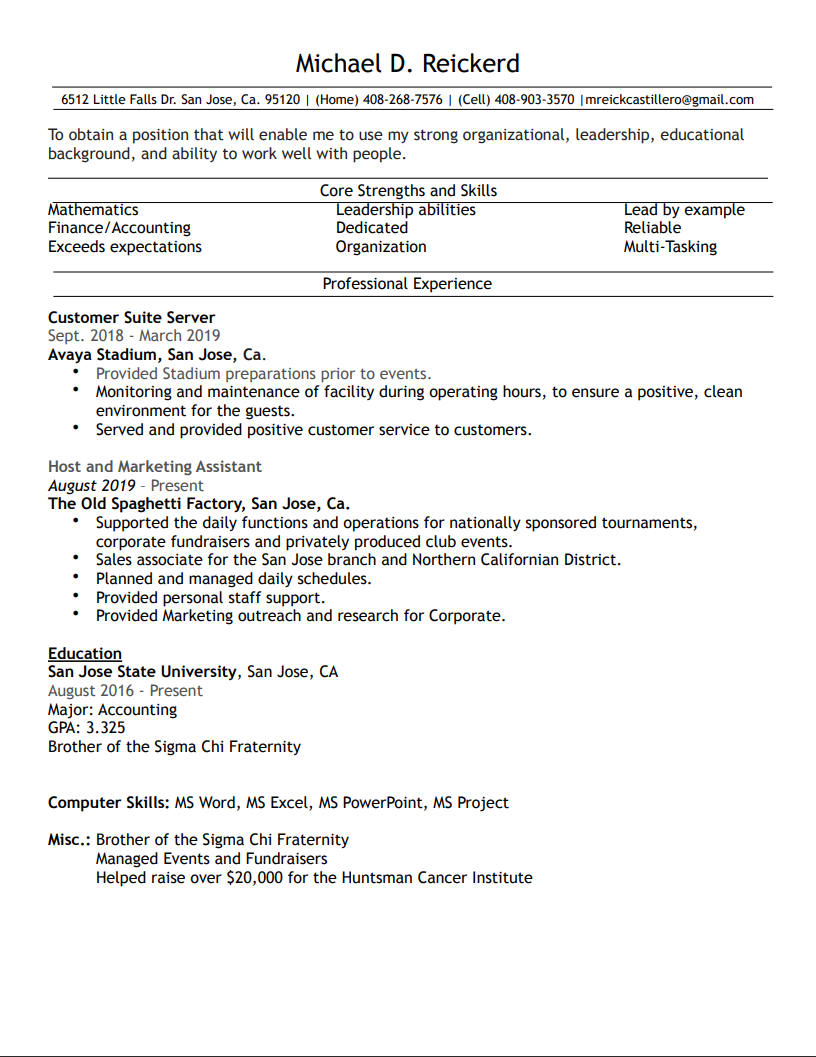
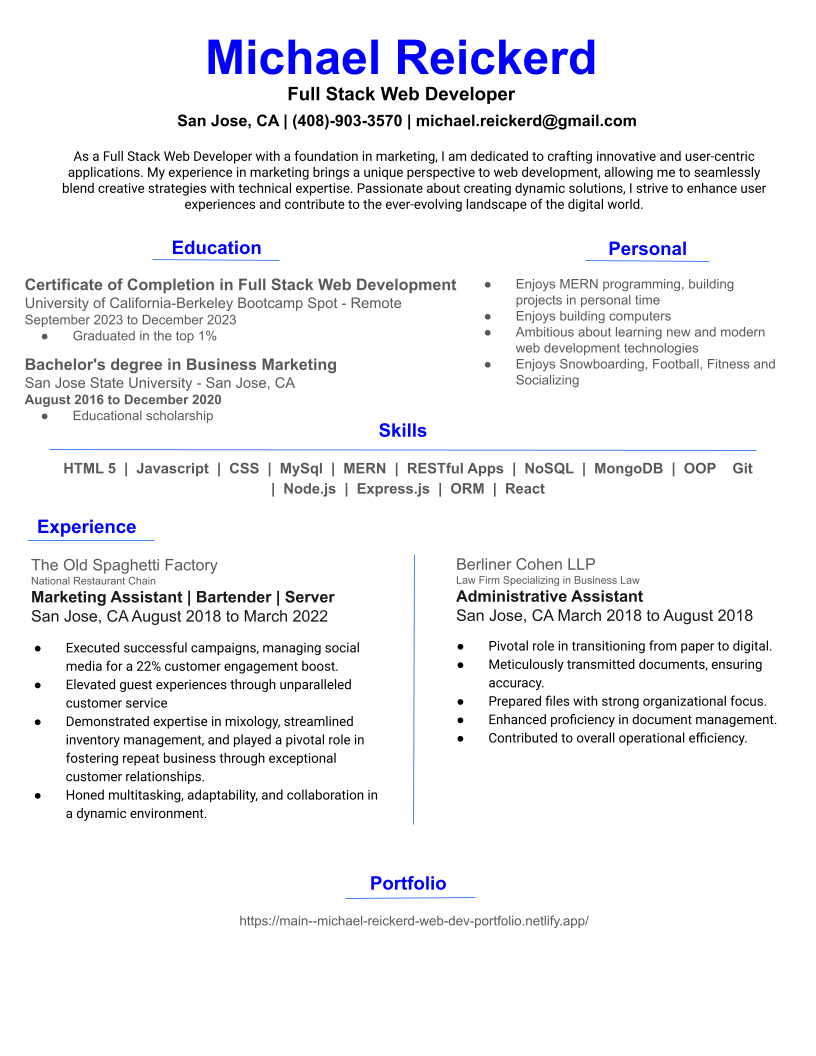
adjusted resume

Changed region(s): [[0.0306, 0.0312, 0.9498, 0.875]]

diff --git a/src/pages/resume.jsx b/src/pages/resume.jsx
@@ -54,51 +54,71 @@ export default function ResumePage() {
       textAlign: "center",
     },
     workDiv: {
-        display: "flex",
-        },
-    work1 : {
-        width: "50%",
-        paddingLeft: "20px",
+      display: "flex",
     },
-    work2 : {
-        width: "50%",
-        paddingLeft: "20px",
-        borderLeft: "1px solid white",
+    work1: {
+      width: "50%",
+      paddingLeft: "20px",
+      paddingRight: "20px",
+    },
+    work2: {
+      width: "50%",
+      paddingLeft: "30px",
+      borderLeft: "1px solid white",
     },
     educationSection: {
-        margin: "10px",
-        width: "90%",
-      },
+      margin: "10px",
+      width: "90%",
+    },
     edAndComp: {
-        borderTop: "1px solid white",
-        display: "flex",
-        justifyContent: "space-around",
-        flexWrap: "wrap",
-        width: "100%",
+      borderTop: "1px solid white",
+      display: "flex",
+      justifyContent: "center",
+      width: "90%",
     },
     edSection: {
-        width: "50%",
-        display: "flex",
-        flexDirection: "column",
-        alignItems: "center",
+      width: "100%",
+      display: "flex",
+      flexDirection: "column",
+      alignItems: "center",
+    },
+    edItem: {
+      width: "100%",
+      padding: "0px",
+      width: "100%",
+      margin: "50px",
     },
     compSection: {
-        width: "50%",
-        display: "flex",
-        flexDirection: "column",
-        alignItems: "center",
+      width: "50%",
+      display: "flex",
+      flexDirection: "column",
+      alignItems: "center",
     },
     edTitle: {
-        color: "rgb(255, 196, 0)",
-        borderBottom: "1px solid white",
-        padding: "10px",
-        textAlign: "center",
+      color: "rgb(255, 196, 0)",
+      borderBottom: "1px solid white",
+      padding: "10px",
+      textAlign: "center",
     },
     compTitle: {
-        color: "rgb(255, 196, 0)",
-        borderBottom: "1px solid white",
-        padding: "10px",
-        textAlign: "center",
+      color: "rgb(255, 196, 0)",
+      borderBottom: "1px solid white",
+      padding: "10px",
+      textAlign: "center",
+    },
+    objectiveSection: {
+      margin: "10px",
+      width: "90%",
+    },
+    edus: {
+      display: "flex",
+      width: "100%",
+    },
+    bottom: {
+      display: "flex",
+      justifyContent: "space-around",
+      width: "90%",
+      borderTop: "1px solid white",
     },
   };
 
@@ -110,11 +130,12 @@ export default function ResumePage() {
     link.click();
   };
 
-
   return (
     <div className="container">
       <h1 className="pagetitle">Resume</h1>
-      <a href="/resume.png" className="resumeDownload" onClick={handleDownload}><i class="fa fa-download"></i></a>
+      <a href="/resume.png" className="resumeDownload" onClick={handleDownload}>
+        <i class="fa fa-download"></i>
+      </a>
       <header>
         <h1 style={styles.myName}>Michael D. Reickerd</h1>
       </header>
@@ -139,26 +160,55 @@ export default function ResumePage() {
         </address>
       </section>
 
-      <section>
+      <section style={styles.objectiveSection}>
         <h2 style={styles.objective}>Objective</h2>
         <p>
-          To obtain a position that will enable me to use my strong
-          organizational, leadership, educational background, and ability to
-          work well with people.
+          As a Full Stack Web Developer with a foundation in marketing, I am
+          dedicated to crafting innovative and user-centric applications. My
+          experience in marketing brings a unique perspective to web
+          development, allowing me to seamlessly blend creative strategies with
+          technical expertise. Passionate about creating dynamic solutions, I
+          strive to enhance user experiences and contribute to the ever-evolving
+          landscape of the digital world.
         </p>
       </section>
+      <div style={styles.edAndComp}>
+        <section style={styles.edSection}>
+          <h2 style={styles.edTitle}>Education</h2>
+          <section style={styles.edus}>
+            <div style={styles.edItem}>
+              <h3>Certificate of Completion in Full Stack Web Development</h3>
+              <p>University of California-Berkeley Bootcamp Spot - Remote</p>
+              <p>September 2023 to December 2023</p>
+              <p>Graduated in the top 1%</p>
+            </div>
+            <div style={styles.edItem}>
+              <h3>Bachelor's degree in Business Marketing</h3>
+              <p>San Jose State University - San Jose, CA</p>
+              <p>August 2016 to December 2020</p>
+              <p>Educational scholarship</p>
+            </div>
+          </section>
+        </section>
+      </div>
 
       <section style={styles.skillsSection}>
         <h2 style={styles.skills}>Core Strengths and Skills</h2>
         <ul style={styles.skillsList}>
-          <li>Mathematics</li>
-          <li>Leadership abilities</li>
-          <li>Finance/Accounting</li>
-          <li>Dedicated</li>
-          <li>Reliable</li>
-          <li>Exceeds expectations</li>
-          <li>Organization</li>
-          <li>Multi-Tasking</li>
+          <li>HTML5</li>
+          <li>Javascript</li>
+          <li>CSS</li>
+          <li>MySQL</li>
+          <li>MERN</li>
+          <li>RESTful Apps</li>
+          <li>NoSQL</li>
+          <li>MongoDB</li>
+          <li>OOP</li>
+          <li>Git</li>
+          <li>Node.js</li>
+          <li>Express.js</li>
+          <li>ORM</li>
+          <li>React</li>
         </ul>
       </section>
 
@@ -166,74 +216,72 @@ export default function ResumePage() {
         <h2 style={styles.experienceTitle}>Professional Experience</h2>
         <div style={styles.workDiv}>
           <div style={styles.work1}>
-            <h3>Customer Suite Server</h3>
-            <p>
-              Sept. 2018 - March 2019
-              <br />
-              Avaya Stadium, San Jose, CA.
-            </p>
+            <h3>The Old Spaghetti Factory</h3>
+            <p>National Restaurant Chain</p>
+            <p>Marketing Assistant | Bartender | Server</p>
+            <p>San Jose, CA August 2018 to March 2022</p>
+
             <ul>
-              <li>Provided Stadium preparations prior to events.</li>
               <li>
-                Monitored and maintained facility during operating hours,
-                ensuring a positive, clean environment for guests.
+                Executed successful campaigns, managing social media for a 22%
+                customer engagement boost.
               </li>
               <li>
-                Served and provided positive customer service to customers.
+                Elevated guest experiences through unparalleled customer
+                service.
+              </li>
+              <li>
+                Demonstrated expertise in mixology, streamlined inventory
+                management, and played a pivotal role in fostering repeat
+                business through exceptional customer relationships.
+              </li>
+              <li>
+                Honed multitasking, adaptability, and collaboration in a dynamic
+                environment.
               </li>
             </ul>
           </div>
           <div style={styles.work2}>
-            <h3>Host and Marketing Assistant</h3>
-            <p>
-              August 2019 – Present
-              <br />
-              The Old Spaghetti Factory, San Jose, CA.
-            </p>
+            <h3>Berliner Cohen LLP</h3>
+            <p>Law Firm Specializing in Business Law</p>
+            <p>Administrative Assistant</p>
+            <p>San Jose, CA March 2018 to August 2018</p>
+
             <ul>
-              <li>
-                Supported the daily functions and operations for nationally
-                sponsored tournaments, corporate fundraisers, and privately
-                produced club events.
-              </li>
-              <li>
-                Sales associate for the San Jose branch and Northern Californian
-                District.
-              </li>
-              <li>Planned and managed daily schedules.</li>
-              <li>Provided personal staff support.</li>
-              <li>Provided Marketing outreach and research for Corporate.</li>
+              <li>Pivotal role in transitioning from paper to digital.</li>
+              <li>Meticulously transmitted documents, ensuring accuracy.</li>
+              <li>Prepared files with a strong organizational focus.</li>
+              <li>Enhanced proficiency in document management.</li>
+              <li>Contributed to overall operational efficiency.</li>
             </ul>
           </div>
         </div>
       </section>
-    <div style={styles.edAndComp}>
-      <section style={styles.edSection}>
-        <h2 style={styles.edTitle}>Education</h2>
-        <p>
-          San Jose State University, San Jose, CA
-          <br />
-          August 2016 - Present
-          <br />
-          Major: Accounting
-          <br />
-          GPA: 3.325
-        </p>
-        <p>Misc.: Brother of the Sigma Chi Fraternity</p>
-      </section>
+      <div style={styles.bottom}>
+        <section style={styles.edSection}>
+          <h2 style={styles.compTitle}>Miscellaneous</h2>
 
-      <section style={styles.compSection}>
-        <h2 style={styles.compTitle}>Computer Skills</h2>
-        <p>MS Word, MS Excel, MS PowerPoint, MS Project</p>
-      </section>
+          <ul>
+            <li>Brother of the Sigma Chi Fraternity</li>
+            <li>Managed Events and Fundraisers</li>
+            <li>Helped raise over $20,000 for the Huntsman Cancer Institute</li>
+          </ul>
+        </section>
+
+        <section style={styles.edSection}>
+          <h2 style={styles.compTitle}>Interests</h2>
+
+          <ul>
+            <li>Enjoys MERN programming, building projects in personal time</li>
+            <li>Enjoys building computers</li>
+            <li>
+              Ambitious about learning new and modern web development
+              technologies
+            </li>
+            <li>Enjoys Snowboarding, Football, Fitness, and Socializing</li>
+          </ul>
+        </section>
       </div>
-
-      <section style={styles.edSection}>
-        <h2 style={styles.compTitle}>Miscellaneous</h2>
-        <p>Brother of the Sigma Chi Fraternity</p>
-        <p>Managed Events and Fundraisers</p>
-        <p>Helped raise over $20,000 for the Huntsman Cancer Institute</p>
-      </section>
     </div>
   );
 }
